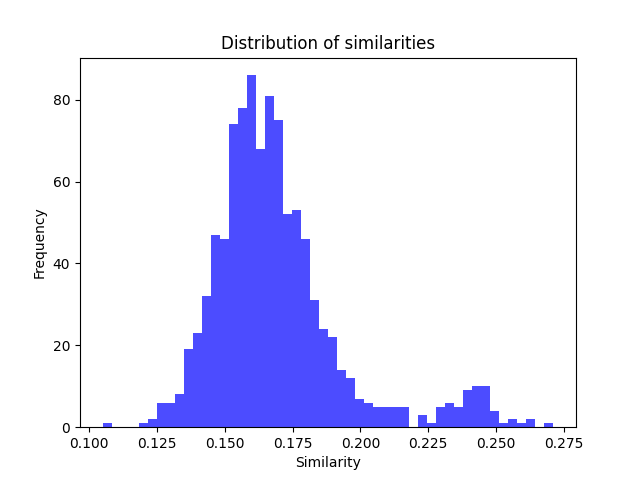
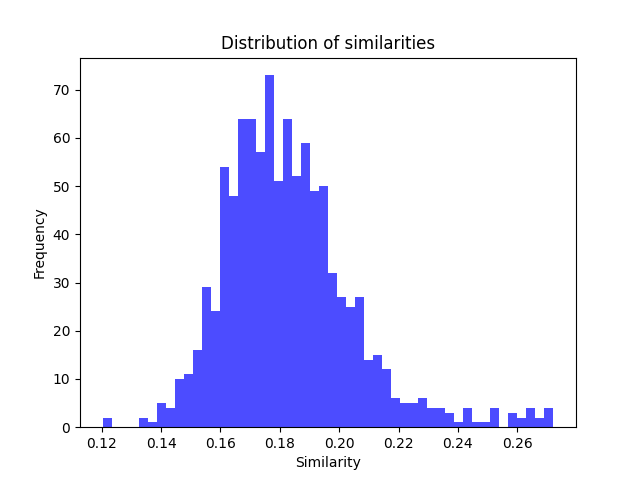
groundtruth fatto

diff --git a/src/CLIP/xp_groundtruth.py b/src/CLIP/xp_groundtruth.py
@@ -1,0 +1,142 @@
+import nltk
+from nltk.corpus import wordnet as wn
+from pathlib import Path
+import json
+
+import argparse
+
+parser = argparse.ArgumentParser()
+parser.add_argument("--concept", required=True, help="concept to find")
+parser.add_argument("--prefilter_prefix", required=True, help="prefilter prefix to choos e the synset")
+args = parser.parse_args()
+
+_concept = args.concept
+prefilter_prefix = args.prefilter_prefix
+
+def synset_to_wnid(s):
+    # WNID = pos + 8 cifre dell'offset del synset (per i nomi: 'n')
+    return f"{s.pos()}{s.offset():08d}"
+
+def get_synsets_from_concept(concept, lang='eng'):
+
+    return wn.synsets(concept, lang=lang, pos=wn.NOUN)
+
+def choose_seed_synsets_cli(concept, lang='eng', prefilter_prefix=None, default_first=True):
+    """
+    Show candidate synsets and let the user pick by index.
+    - prefilter_prefix e.g. 'dog.n.' to keep only specific senses, or None for all noun senses
+    - default_first: hitting ENTER selects index 0
+    Returns: list[Synset]
+    """
+    cands = get_synsets_from_concept(concept, lang=lang)
+    if prefilter_prefix:
+        cands = [s for s in cands if s.name().startswith(prefilter_prefix)]
+    if not cands:
+        raise RuntimeError(f"No noun synsets found for '{concept}' (lang={lang}).")
+
+    print(f"Candidate synsets for '{concept}' (lang={lang}):")
+    for i, s in enumerate(cands):
+        print(pretty_synset_row(i, s))
+
+    prompt = "Choose one or more by index (comma-separated)."
+    if default_first: prompt += " PRESS ENTER for [0]."
+    raw = input(prompt + " > ").strip()
+
+    idxs = []
+    if not raw:
+        if default_first:
+            idxs = [0]
+        else:
+            raise RuntimeError("No selection made.")
+    else:
+        for tok in raw.split(","):
+            tok = tok.strip()
+            if tok:
+                j = int(tok)
+                if j < 0 or j >= len(cands):
+                    raise ValueError(f"Index {j} out of range [0..{len(cands)-1}]")
+                idxs.append(j)
+
+    # Deduplicate while preserving order
+    seen = set()
+    sel = []
+    for j in idxs:
+        if j not in seen:
+            sel.append(cands[j])
+            seen.add(j)
+    return sel
+
+def pretty_synset_row(i, s):
+    lemmas = ", ".join(s.lemma_names())
+    return f"[{i}] {s.name():<18}  {s.definition()}  (lemmas: {lemmas})"
+
+def hyponym_closure_synsets(seed_synsets):
+    seen = set(seed_synsets)
+    stack = list(seed_synsets)
+    while stack:
+        s = stack.pop()
+        for h in s.hyponyms():
+            if h not in seen:
+                seen.add(h)
+                stack.append(h)
+    return seen
+
+def wnid_to_synset(wnid: str):
+    """
+    Converte un WNID tipo 'n02084071' in un oggetto Synset di WordNet.
+    """
+    pos = wnid[0]   # 'n', 'v', 'a', 'r'
+    offset = int(wnid[1:])
+    return wn.synset_from_pos_and_offset(pos, offset)
+
+
+if __name__ == "__main__":
+
+    model_name = 'vgg'
+
+    seed_synsets = get_synsets_from_concept(_concept, lang='eng')
+    print(f"Seed synsets for '{_concept}': {[s.name() for s in seed_synsets]}")
+
+    seed_synsets = choose_seed_synsets_cli(_concept, lang='eng', prefilter_prefix=prefilter_prefix)
+
+    print(f"Seed synsets for '{_concept}': {[s.name() for s in seed_synsets]}")
+
+    if not seed_synsets:
+        raise RuntimeError(f"Nessun synset trovato per '{_concept}'")
+
+    subtree = hyponym_closure_synsets(seed_synsets)
+    subtree_wnids = {synset_to_wnid(s) for s in subtree} | {synset_to_wnid(s) for s in seed_synsets}
+
+    for wnid in sorted(subtree_wnids): 
+        syn = wnid_to_synset(wnid)
+        print(f"{wnid} -> {syn.name()} : {syn.definition()}")
+    
+    with open(Path.cwd()/f'../../data/{model_name}/imagenet_class_synset.json', "r", encoding="utf-8") as f:
+        wnid_to_idx_label = json.load(f) 
+
+    target = []
+    for wnid in subtree_wnids:
+        if wnid in wnid_to_idx_label:
+            idx, label = wnid_to_idx_label[wnid]
+            target.append((idx, wnid, label))
+
+    target.sort(key=lambda x: x[0])
+
+    print(target)
+    quit()
+
+    # 5) Stampa (o usa come vuoi)
+    print(f"Trovate {len(target)} classi ImageNet-1k nel concetto selezionato.")
+    for idx, wnid, label in target[:10]:
+        print(f"{idx:03d}  {wnid}  {label}")
+    if len(target) > 10:
+        print("...")
+
+    # 6) (Opzionale) Salva CSV
+    out_csv = "imagenet_labels_for_concept.csv"
+    with open(out_csv, "w", newline="", encoding="utf-8") as f:
+        w = csv.writer(f)
+        w.writerow(["class_idx", "wnid", "label"])
+        w.writerows(target)
+
+    print(f"Salvato: {out_csv}")

diff --git a/src/CLIP/xp_cv_concept.py b/src/CLIP/xp_cv_concept.py
@@ -67,6 +67,9 @@ if __name__ == "__main__":
     cvs_path = Path.cwd()/f'../../data/{model_name}/corevectors'
     cvs_name = 'corevectors'
 
+    embeds_path = Path.cwd()/f'../../data/{model_name}/corevectors'
+    embeds_name = 'CLIP_embeddings_ViT-L14'
+
     drill_path = Path.cwd()/f'../../data/{model_name}/drillers'
     drill_name = 'classifier'
     
@@ -96,6 +99,12 @@ if __name__ == "__main__":
             path = cvs_path,
             name = cvs_name,
             )
+
+    embeds = CoreVectors(
+            path = embeds_path,
+            name = embeds_name,
+            model = model,
+            )
     
     drillers = {_layer: tGMM(
                             path = drill_path,
@@ -111,11 +120,16 @@ if __name__ == "__main__":
     concept_path.mkdir(parents=True, exist_ok=True)
 
     # fitting classifiers
-    with corevecs as cv:
+    with corevecs as cv, embeds as em:
         cv.load_only(
                 loaders = ['train', 'val'],
                 verbose = True
                 ) 
+        
+        em.load_only(
+                loaders = ['train', 'val'],
+                verbose = True
+                )
 
         for drill_key, driller in drillers.items():
             print(f'Loading Classifier for {drill_key}') 
@@ -129,7 +143,7 @@ if __name__ == "__main__":
         
         start = 0
         
-        for data in cv_dl:
+        for data in tqdm(cv_dl):
             bs = data.shape[0]
             probs[start:start+bs] = drillers[_layer]._classifier.predict_proba(data)
             start += bs
@@ -149,16 +163,11 @@ if __name__ == "__main__":
             for cluster in tqdm(range(n_cluster)): 
 
                 idx = torch.argwhere((clusters==cluster)).squeeze()
-                images = cv._dss['train']['image'][idx]
 
-                with torch.no_grad():
-                    
-                    image_features = model.encode_image(images.to(device))
+                mean_em = em._corevds['train']['embedding'][idx].mean(dim=0, keepdim=True)           
+                mean_em = mean_em / mean_em.norm(dim=-1, keepdim=True)   
 
-                    mean_image = image_features.mean(dim=0, keepdim=True)           
-                    mean_image = mean_image / mean_image.norm(dim=-1, keepdim=True)   
-
-                sim[cluster] = mean_image @ text_embeds.t()
+                sim[cluster] = mean_em.float().to(device) @ text_embeds.float().t()
 
             torch.save(sim.cpu(), concept_path / f"distribution_similarity_{_concept}.pt") 
 
@@ -170,19 +179,20 @@ if __name__ == "__main__":
         plt.ylabel("Frequency")
         plt.title("Distribution of similarities")
         plt.savefig('prova.png')
+        
 
         threshold = threshold_otsu(sim_values.numpy())
         print("Otsu threshold:", threshold)
 
         # Take the 95th percentile
-        percentile_90 = torch.quantile(sim_values, 0.90)
+        percentile_90 = torch.quantile(sim_values, 0.97)
         print("90th percentile:", percentile_90.item())
 
         # If you want the *values* above the 95th percentile
         top_values = sim_values[sim_values >= percentile_90]
         print("Number of values above 90th percentile:", top_values.numel())
 
-        thr = torch.quantile(sim.float().flatten(), 0.90)
+        thr = torch.quantile(sim.float().flatten(), 0.97)
 
         top_mask = sim >= thr                         # [num_clusters]
         cluster_ids = torch.nonzero(top_mask).squeeze(1)  # indices of clusters
@@ -220,7 +230,6 @@ if __name__ == "__main__":
         plt.tight_layout()
         plt.title("Distribution of similarities")
         plt.savefig(concept_path/'Similarity_distribution.png')
-        quit()
 
         for cluster, sim in tqdm(zip(cluster_ids.tolist(),top_vals.tolist())):
             idx = torch.argwhere((clusters==cluster)).squeeze()
